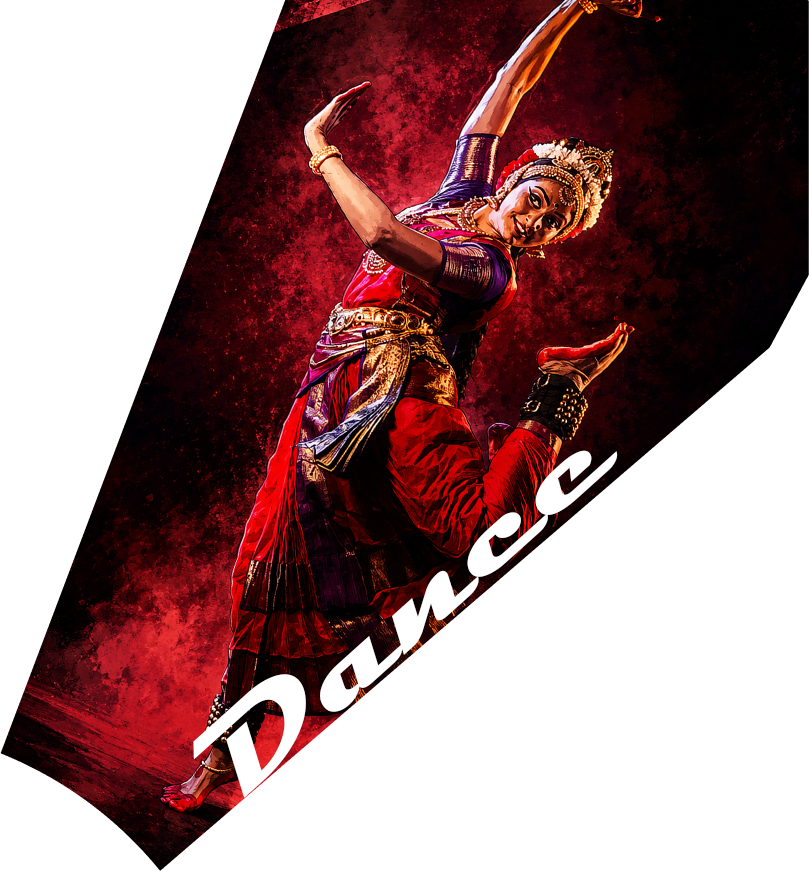
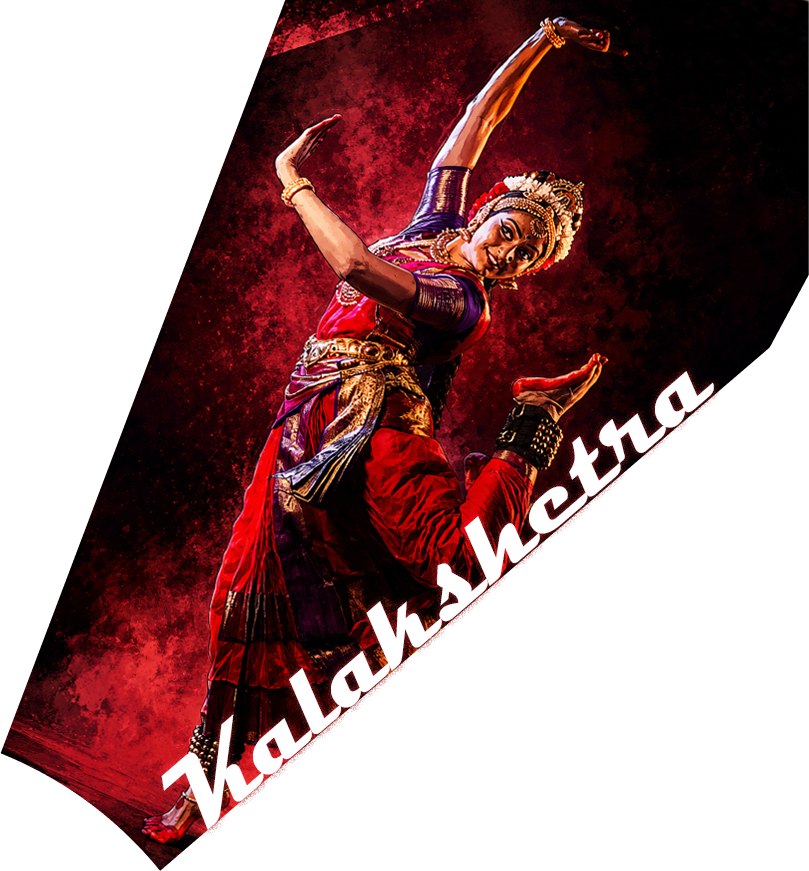
Event page finalized

diff --git a/src/pages/events/Events.tsx b/src/pages/events/Events.tsx
@@ -4,7 +4,7 @@ import dance from "/images/events/dancef.png";
 import drama from "/images/events/dramaf.png";
 import dramaMobile from "/images/events/DramaMobile.png";
 import music from "/images/events/music1.png";
-import misc from "/images/events/misc.png";
+import misc from "/images/events/misc1.png";
 import photography from "/images/events/proshow.png";
 // import quizzes from "/images/events/quizzes.png";
 import danceMobile from "/images/events/DanceMobile.png";
